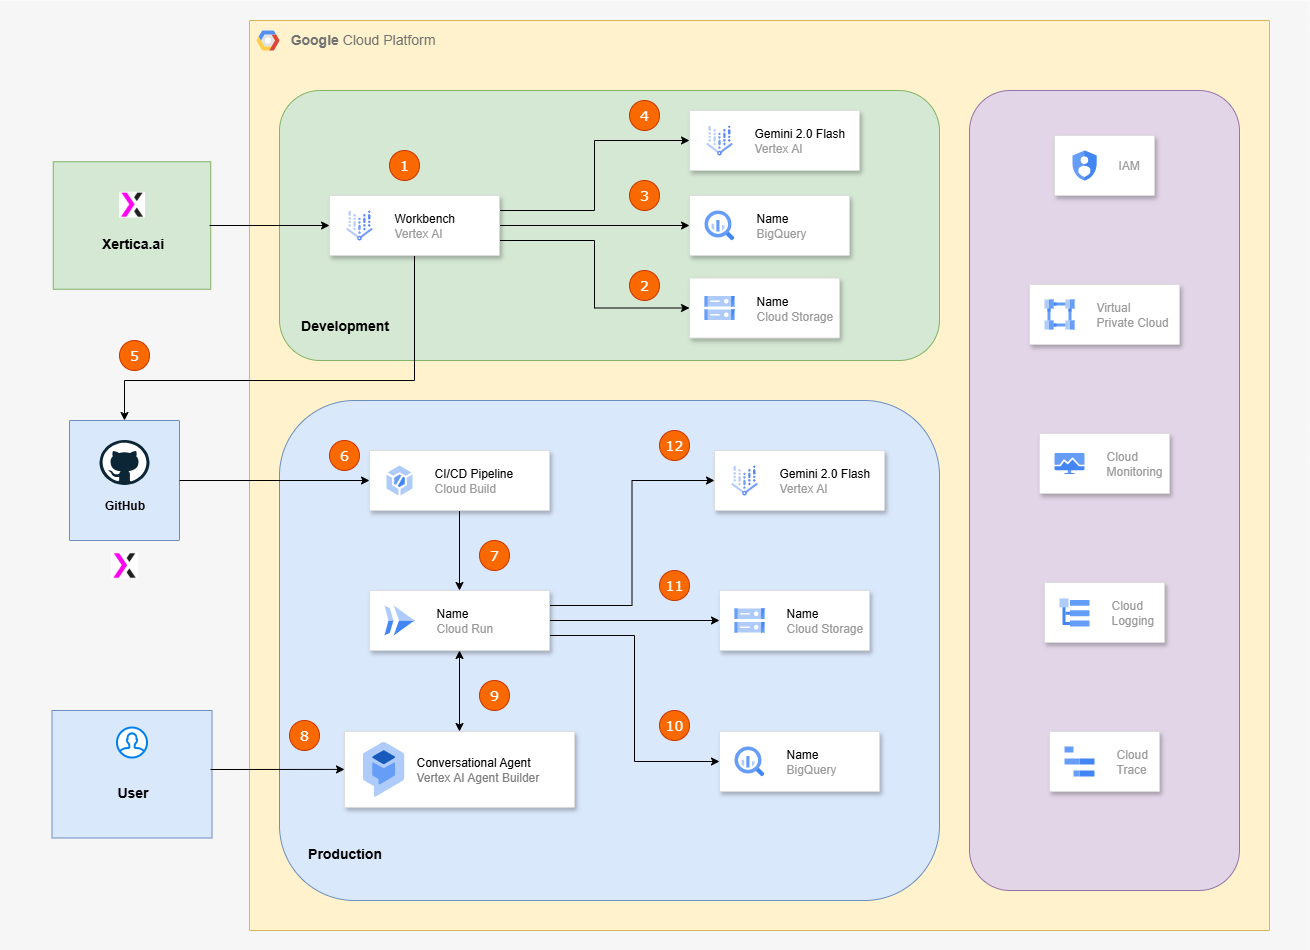
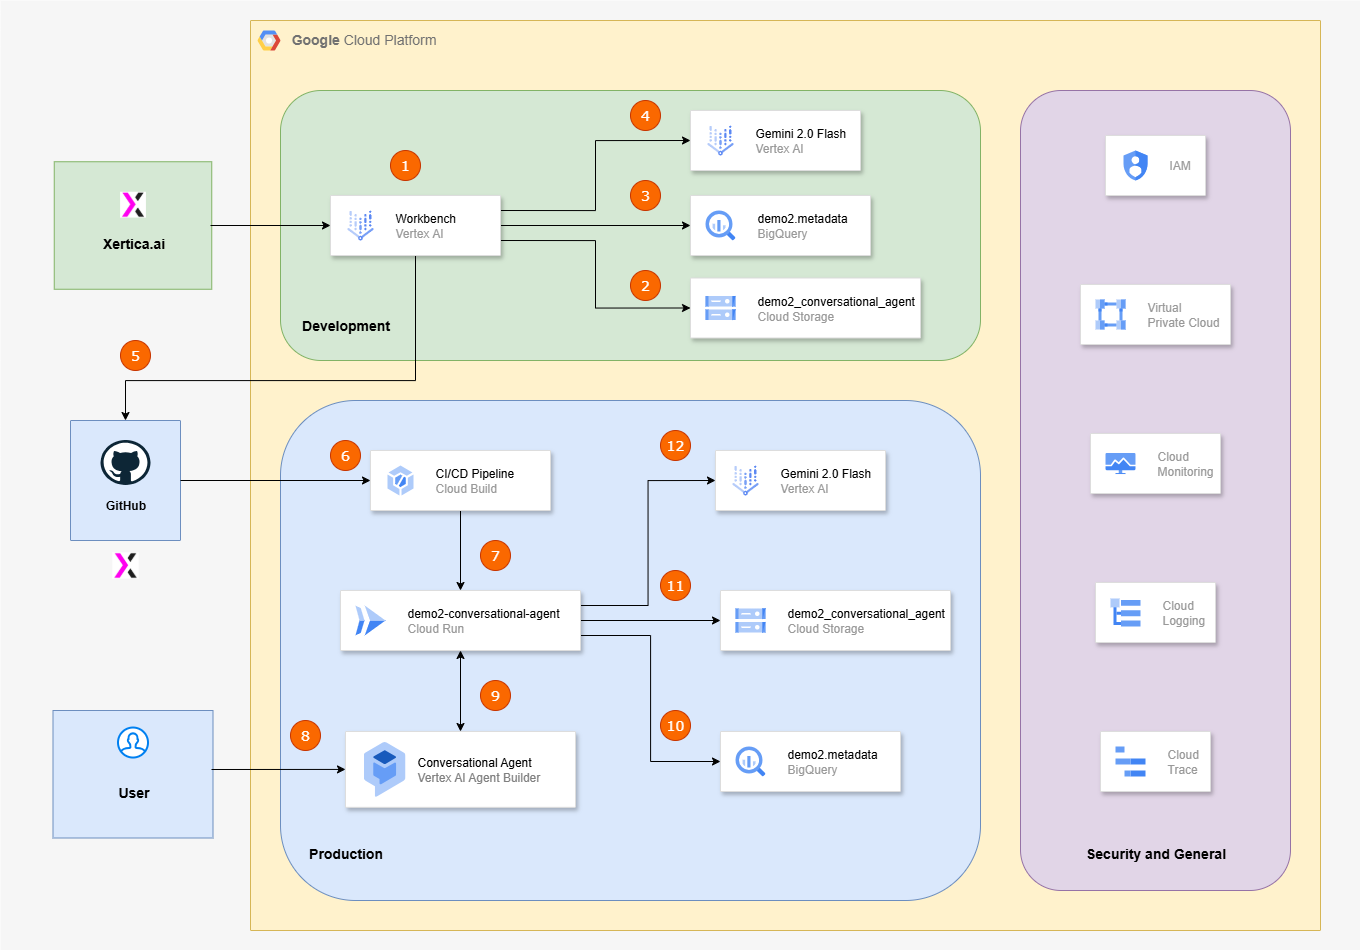
Conversational Agent

diff --git a/Demo 2/main.py b/Demo 2/main.py
@@ -1,0 +1,189 @@
+import pandas as pd         # Used for data manipulation, especially with BigQuery results
+import pandas_gbq           # Integrates pandas with Google BigQuery
+import os                   # Used to access environment variables
+import flask                # Required for defining Google Cloud Function
+# contains a dictionary for structuring HTTP responses for Conversational Agent
+from response_format import response
+
+# Google Cloud Vertex AI SDK for interacting with Generative Models (Gemini)
+from vertexai import generative_models as vertex_gm
+from vertexai.generative_models import GenerationConfig, Part
+import vertexai
+
+# --- Configuration Variables ---
+# Retrieve environment variables for project settings and model configuration.
+# These variables should be set in the Cloud Function environment.
+PROJECT_ID = os.getenv("PROJECT_ID")
+LOCATION = os.getenv("LOCATION")
+DATASET = os.getenv("DATASET")
+TABLE = os.getenv("TABLE")
+# The base prompt for the Gemini model
+PROMPT_TEMPLATE = os.getenv("PROMPT_TEMPLATE")
+GEMINI_MODEL = os.getenv("GEMINI_MODEL")
+
+# --- Vertex AI Initialization ---
+# Initialize the Vertex AI SDK with your project ID and location.
+vertexai.init(project=PROJECT_ID, location=LOCATION)
+
+# --- Gemini Model Configuration ---
+# Load the specified Generative Model (e.g., "gemini-pro").
+model = vertex_gm.GenerativeModel(GEMINI_MODEL)
+
+# Define safety settings for the Gemini model.
+# This configuration aims to block no content for these categories,
+# allowing maximum flexibility for judicial document analysis
+SAFETY_SETTINGS = {
+    vertex_gm.HarmCategory.HARM_CATEGORY_DANGEROUS_CONTENT: vertex_gm.HarmBlockThreshold.BLOCK_NONE,
+    vertex_gm.HarmCategory.HARM_CATEGORY_SEXUALLY_EXPLICIT: vertex_gm.HarmBlockThreshold.BLOCK_NONE,
+    vertex_gm.HarmCategory.HARM_CATEGORY_HATE_SPEECH: vertex_gm.HarmBlockThreshold.BLOCK_NONE,
+    vertex_gm.HarmCategory.HARM_CATEGORY_HARASSMENT: vertex_gm.HarmBlockThreshold.BLOCK_NONE,
+    vertex_gm.HarmCategory.HARM_CATEGORY_UNSPECIFIED: vertex_gm.HarmBlockThreshold.BLOCK_NONE,
+}
+
+# Define generation configuration for the Gemini model.
+# These parameters control the output quality and creativity.
+# temperature: Lower values make outputs more deterministic; higher values more creative.
+# top_p: Controls diversity via nucleus sampling.
+# top_k: Controls diversity via top-k sampling.
+# candidate_count: Number of response candidates to generate (usually 1 for direct answers).
+# max_output_tokens: Maximum length of the generated response.
+GENERATION_CONFIG = vertexai.generative_models.GenerationConfig(
+    temperature=0.1,
+    top_p=0.9,
+    top_k=40,
+    candidate_count=1,
+    max_output_tokens=2048,
+)
+
+# --- Helper Functions ---
+
+def get_document_uri(process_number: int) -> str:
+    """
+    Retrieves the Google Cloud Storage (GCS) URI of a document
+    associated with a given process number from a BigQuery table.
+
+    Args:
+        process_number (int): The unique identifier for the judicial process.
+
+    Returns:
+        str: The GCS URI of the document.
+
+    Raises:
+        Exception: If the document URI cannot be retrieved (e.g., process number not found).
+    """
+    bq_query = f"""
+        SELECT gcs_uri FROM `{PROJECT_ID}.{DATASET}.{TABLE}` WHERE id = {process_number};
+    """
+    print(f"Executing BigQuery query: {bq_query}")
+
+    try:
+        # Execute the BigQuery query using pandas_gbq
+        df = pandas_gbq.read_gbq(
+            bq_query,
+            project_id=PROJECT_ID,
+            dialect="standard"
+        )
+
+        # Check if any row was returned
+        if df.empty:
+            raise ValueError(f"No document found for process number: {process_number}")
+
+        # Return the GCS URI from the first row (assuming 'id' is unique)
+        return df.loc[0, 'gcs_uri']
+    except Exception as e:
+        print(f"Error fetching GCS URI from BigQuery: {e}")
+        # Re-raise or handle appropriately based on desired error flow
+        raise
+
+def answer_with_llm(question: str, process_number: int) -> str:
+    """
+    Uses a Large Language Model (LLM) to answer a question based on a document
+    retrieved from GCS, identified by a process number.
+
+    Args:
+        question (str): The user's question to be answered.
+        process_number (int): The identifier for the judicial process document.
+
+    Returns:
+        str: The LLM's answer to the question, or an error message if something goes wrong.
+    """
+    try:
+        # 1. Retrieve the GCS URI for the relevant document
+        relevant_document_uri = get_document_uri(process_number)
+
+        # 2. Format the prompt with the user's question
+        prompt_formatted = PROMPT_TEMPLATE.format(question)
+
+        # 3. Create a Part object for the document from its GCS URI
+        document_part = Part.from_uri(uri=relevant_document_uri, mime_type='application/pdf')
+
+        # 4. Assemble the content parts for the Gemini model
+        # The content includes the formatted prompt and the document itself.
+        contents = [prompt_formatted, document_part]
+
+        # 5. Generate content using the Gemini model
+        gemini_response = model.generate_content(
+            contents,
+            generation_config=GENERATION_CONFIG,
+            safety_settings=SAFETY_SETTINGS
+        )
+
+        # Extract the text from the Gemini response
+        return gemini_response.text
+
+    except Exception as e:
+        print(f"An error occurred during LLM interaction: {e}")
+        # Return a user-friendly error message
+        return "Sorry, an internal error occurred while processing your request. Could you please try again?"
+
+# --- Google Cloud Function Entry Point ---
+
+app = flask.Flask(__name__)
+
+@app.route('/', methods=['POST'])
+def main():
+
+    """
+    Main entry point for the Google Cloud Function.
+    Handles incoming HTTP requests, extracts the user's question,
+    calls the LLM to get an answer, and returns it in a structured format.
+
+    Args:
+        request (flask.Request): The HTTP request object.
+
+    Returns:
+        tuple: A tuple containing (response_body, status_code, headers).
+    """
+    # Default values for testing
+    default_process_number = 1
+    default_question = 'What is the current status of the case?'
+
+    # Parse the JSON body of the incoming request
+    request_json = flask.request.json
+
+    question = default_question
+    process_number = default_process_number
+
+    if request_json:
+        # Extract the 'text' field which contains the user's question
+        question = request_json.get("text", default_question)
+        # Extract 'process_number' if provided in the request
+        process_number = request_json.get("process_number", default_process_number)
+    else:
+        print("Warning: Request body is empty or not JSON. Using default question and process number.")
+
+    # Define HTTP headers for the response
+    headers = {'Content-Type': 'application/json'}
+
+    # Get the answer from the LLM based on the question and document
+    llm_answer = answer_with_llm(question, process_number)
+
+    # Print the full LLM response to Cloud Function logs for debugging
+    print(f"Full LLM response: {llm_answer}")
+
+    # Prepare the final response dictionary.
+    # The 'response' object imported from 'response_format' is used as template.
+    response["fulfillment_response"]["messages"] = llm_answer
+
+    # Return the structured response, HTTP status code 200 (OK), and headers
+    return (response, 200, headers)

diff --git a/Demo 2/response_format.py b/Demo 2/response_format.py
@@ -1,0 +1,11 @@
+response = {
+        "fulfillment_response": {
+            "messages": [
+                {
+                    "text": {
+                        "text": ["hello"]
+                    }
+                }
+            ]
+        }
+    }
